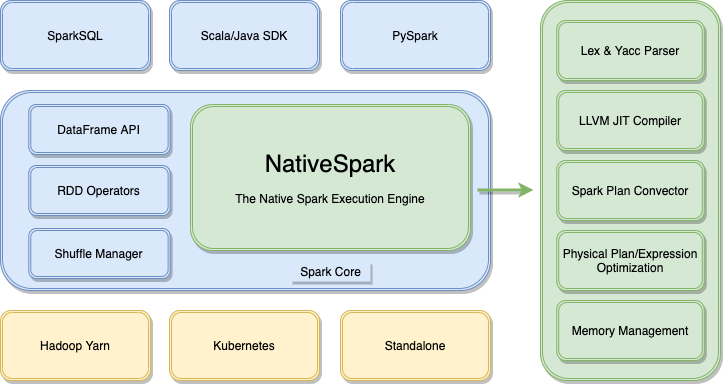
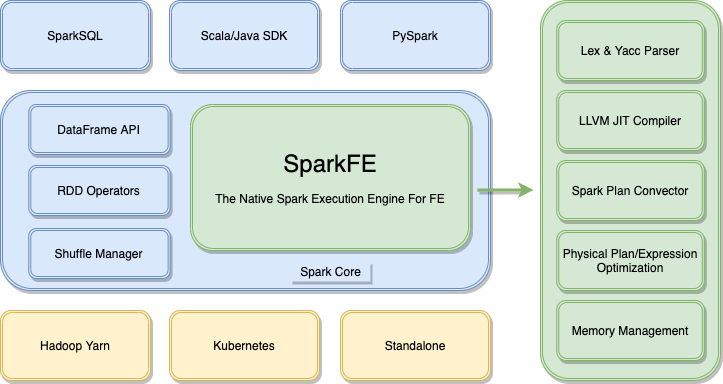
Add more docs for SparkFE

Changed region(s): [[0.3651, 0.375, 0.5477, 0.4688], [0.3043, 0.5, 0.6086, 0.5312]]

diff --git a/sparkfe/under_the_hook/native_window_compute.md b/sparkfe/under_the_hook/native_window_compute.md
@@ -1,0 +1,42 @@
+# NativeWindow优化
+
+## 介绍
+
+SparkFE面向AI和FE场景进行优化，尤其在支持时序窗口的特征抽取上，无论是功能还是性能都比标准Spark有很大提升。
+
+## Spark Over Window实现
+
+对于Spark包含了Catalyst模块，用于进行SQL解析以及最终的RDD物理计划的生成。一个包含时间窗口的SQL用例如下。
+
+```
+select 
+    col1,
+    sum(col2) over w as sum_col2,
+    max(col2) over w as max_col2,
+    min(col2) over w as min_col2,
+    avg(col2) over w as avg_col2
+from t1
+window w as (partition by col1 order by col2 ROWS BETWEEN 10000 PRECEDING AND CURRENT ROW)
+```
+
+根据语意，Spark需要对`col1`列进行分区，所以的滑窗计算都是在每个分区内进行，对应的RDD操作为`repartition`。然后根据用户脚本，分区内的数据要以`col2`进行排序，排序后保留一个10000个数据的窗口缓冲区，对应的RDD操作为`sortWithinPartitions`。最终排序后的数据依次进入窗口缓冲区，根据窗口边界定义检查是否需要滑出，每滑入一行进行一组聚合计算输出一行结果。
+
+标准Spark使用RDD支持的结果，可以很高效地实现前面分区和排序的功能，但对于窗口滑动计算部分，目前是使用Scala语言进行实现的。虽然Spark 2.0开始了Tungsten模块对部分算子进行了Whole-stage code generation的优化，但从最终生成的物理计划可以看出，Window节点是没有被优化的，代码中也缺少对codegen接口的实现。
+
+![](../images/spark_window_physical_plan.png)
+
+实际上窗口的滑出判断以及窗口缓冲区聚合计算是计算密集型操作，使用Scala实现并不高效，而且没有codegen支持相当于缺少了更底层的编译器优化。因此虽然SparkSQL有了对ANSI SQL的Window支持，可以用来实现时序特征计算，但仍有巨大的提升空间。
+
+## SparkFE优化实现
+
+SparkFE是基于Spark的原生执行引擎，可以很好地优化前面提到的计算密集型代码逻辑。
+
+根据SQL Window语意，SparkFE同样会使用RDD的`repartition`和`sortWithinPartitions`进行数据分区和排序，这样可以很好地利用Spark在分布式计算上的优化，而不需要重写网络通信等所有底层接口。在分区和排序后，滑窗逻辑和聚合计算都通过JNI调用SparkFE的native接口来实现。通过JIT技术，用户不需要提前在运行的物理环境进行预编译，而是由SparkFE提前对SQL进行编译优化，把所需要的聚合函数以及滑窗逻辑实时生成LLVM IR，基于LLVM的编译器和后端代码生成器来生成平台优化的二进制码。在计算密集型的窗口聚合计算上，使用LLVM JIT的生成的代码在效率上比用Scala实现的在JVM上运行的代码高很多，尤其加上向量化等优化可以达到数倍的性能提升。除了JIT上的优化，SparkFE内部基于C++还使用了更高效的队列数据结果和更好的堆对象回收机制，并且兼容Spark内部支持的UnsafeRow连续内存格式，大大降低跨语言调用的开销。
+
+对包含Window计算的标准Spark应用进行火焰图性能分析，目前滑动窗口的开销占比就不小，而且窗口内部的聚合计算也不够高效。
+
+![](../images/spark_window_framegraph.png)
+
+同样对SparkFE进行火焰图性能分析，纯计算逻辑的时间占比更高，整体任务运行时间也更短。
+
+![](../images/sparkfe_window_framegraph.png)

diff --git a/sparkfe/benchmark/taxi_tour_multiple_window_benchmark.md b/sparkfe/benchmark/taxi_tour_multiple_window_benchmark.md
@@ -1,0 +1,78 @@
+# TaxiTour多窗口测试
+
+## 介绍
+
+这个测试场景使用公开的TaxiTour数据，数据已经预处理成Parquet文件格式，测试脚本地址为 https://github.com/4paradigm/SparkFE/tree/main/benchmark/taxi_tour_multiple_window 。
+
+## 测试SQL
+
+测试的SQL脚本包含两个Window，窗口大小默认为10000，如果窗口越大那么整体运行时间变长，但SparkFE的性能提升越明显。
+
+```
+select 
+    trip_duration,
+    passenger_count,
+    sum(pickup_latitude) over w as vendor_sum_pl,
+    max(pickup_latitude) over w as vendor_max_pl,
+    min(pickup_latitude) over w as vendor_min_pl,
+    avg(pickup_latitude) over w as vendor_avg_pl,
+    sum(pickup_latitude) over w2 as pc_sum_pl,
+    max(pickup_latitude) over w2 as pc_max_pl,
+    min(pickup_latitude) over w2 as pc_min_pl,
+    avg(pickup_latitude) over w2 as pc_avg_pl,
+    sum(dropoff_latitude) over w as vendor_sum_pl2,
+    max(dropoff_latitude) over w as vendor_max_pl2,
+    min(dropoff_latitude) over w as vendor_min_pl2,
+    avg(dropoff_latitude) over w as vendor_avg_pl2,
+    sum(dropoff_latitude) over w2 as pc_sum_pl2,
+    max(dropoff_latitude) over w2 as pc_max_pl2,
+    min(dropoff_latitude) over w2 as pc_min_pl2,
+    avg(dropoff_latitude) over w2 as pc_avg_pl2,
+    sum(trip_duration) over w as vendor_sum_pl3,
+    max(trip_duration) over w as vendor_max_pl3,
+    min(trip_duration) over w as vendor_min_pl3,
+    avg(trip_duration) over w as vendor_avg_pl3,
+    sum(trip_duration) over w2 as pc_sum_pl3,
+    max(trip_duration) over w2 as pc_max_pl3,
+    min(trip_duration) over w2 as pc_min_pl3,
+    avg(trip_duration) over w2 as pc_avg_pl3
+from t1
+window w as (partition by vendor_id order by pickup_datetime ROWS BETWEEN 10000 PRECEDING AND CURRENT ROW),
+       w2 as (partition by passenger_count order by pickup_datetime ROWS BETWEEN 10000 PRECEDING AND CURRENT ROW)
+```
+
+## 测试脚本
+
+测试使用简单PySpark即可运行，也可以使用Scala等语言实现，小数据量下本地可运行，示例程序如下。
+
+```
+from pyspark.sql import SparkSession
+import os
+
+def main():
+    spark = SparkSession.builder.appName("app").getOrCreate()
+
+    current_path = os.getcwd()
+    parquet_file_path = "file://{}/taxi_tour_parquet/".format(current_path)
+
+    train = spark.read.parquet(parquet_file_path)
+    train.createOrReplaceTempView("t1")
+
+    with open("multiple_window.sql", "r") as f:
+        sparksqlText = f.read()
+        spark_df = spark.sql(sparksqlText)
+
+        output_path = "file:///tmp/spark_output/"
+        spark_df.write.mode('overwrite').parquet(output_path)
+
+    spark.stop()
+
+if __name__ == "__main__":
+    main()
+```
+
+```
+$SPARK_HOME/bin/spark-submit \
+     --master local[*] \
+     ./multiple_window.py
+```

diff --git a/sparkfe/under_the_hook/multiple_window_concurrent_compute_optimization.md b/sparkfe/under_the_hook/multiple_window_concurrent_compute_optimization.md
@@ -1,0 +1,40 @@
+# 多窗口并行计算优化
+
+## 介绍
+
+在使用Spark做特征过程的场景中，同时计算多个窗口特征是非常常见的。标准Spark默认只支持串行执行窗口，在性能和资源利用率上都很大的改进空间，SparkFE则原生支持多窗口并行计算优化。
+
+以下面的简单SQL为例介绍SparkFE的多窗口并行计算优化方案。
+
+```
+SELECT 
+  min(age) OVER w1 as w1_min_age, 
+  min(age) OVER w2 as w2_min_age 
+FROM t1 
+WINDOW 
+  w1 as (PARTITION BY name ORDER by age ROWS BETWEEN 10 PRECEDING AND CURRENT ROW), 
+  w2 as (PARTITION BY age ORDER by age ROWS BETWEEN 10 PRECEDING AND CURRENT ROW)"
+```
+
+## Spark多窗口特征计算
+
+针对上面的SQL应用，标准Spark生成的逻辑计划和物理计划图如下。
+
+![](../images/spark_multiple_window_logical_plan.png)
+
+在任务执行时，必须保证第一个窗口完全计算完成，才可以进行下一个窗口计算。因为窗口计算是需要进行分区的，如果分区中出现数据倾斜的情况，那两个窗口计算都需要等待最慢的分区完成才可以继续，不能充分利用整个集群的计算资源。
+
+
+## SparkFE多窗口特征并行计算
+
+SparkFE提供了多窗口并行计算优化的配置开关，参考[SparkFE配置](../usage/sparkfe_configuration.md)文档，可以通过以下配置来开启UnsafeRow优化。
+
+| 配置项 | 说明 | 默认值 | 备注 |
+| ----- | --- | ----- | ---- |
+| sparkfe.window.parallelization | 是否启动窗口并行计算优化 | false | 窗口并行计算可提高集群利用率但增加计算节点 |
+
+开启配置后，针对上面的SQL应用，SparkFE生成的逻辑计划以及最终的Spark计划如下。
+
+![](../images/sparkfe_multiple_window_concurrent_logical_plan.png)
+
+多窗口并行需要实现一个ConcatJoin功能，把同一行生成的多个窗口特征拼接起来，这里也可以使用[原生LastJoin实现](./native_last_join_optimization.md)进行拼接优化。相比于串行实现，多窗口并行计算虽然会多增加一些数据操作，但多个窗口在资源足够的情况下并行计算，在部分场景下可以达到数倍的性能提升，尤其在出现数据倾斜等情况下能更好地利用集群的物理资源。

diff --git a/sparkfe/under_the_hook/native_last_join_optimization.md b/sparkfe/under_the_hook/native_last_join_optimization.md
@@ -1,0 +1,49 @@
+# 原生LastJoin优化
+
+## 介绍
+
+LastJoin是SparkFE新增的一种适用于机器学习场景的拼表类型，详细介绍可参考[HybridSE语法介绍](../../hybridse/language_guide/)。
+
+## LastJoin实现
+
+根据LastJoin语意，要求拼表后行数与左表行数一致，目前SQL标准的inner join和outer join都不能够满足。如果使用Spark来实现LastJoin语意，实现步骤如下。
+
+1. 左表添加一个索引列，保证每一行有唯一ID
+2. 左右表使用left outer join
+3. 拼表后根据索引列进行reduce
+
+基本的实现代码如下。
+
+```
+val indexColumnName = "indexCol"
+val orderbyColmn = "orderbyCol"
+
+val t1WithIndex = t1.withColumn(indexColumnName, monotonically_increasing_id())
+val t3 = t1WithIndex.join(t2, t1WithIndex("id") === t2("u_id"), "left_outer")
+
+val customOrder = new Ordering[Row]() {
+    override def compare(x: Row, y: Row): Int =
+    Ordering[Long].compare(x.getAs[Long](orderbyColmn), y.getAs[Long](orderbyColmn))
+}
+
+val t4 = t3.groupByKey(row => row.getAs[Long](indexColumnName)).mapGroups {
+    case (k, iter) => {
+    val maxRow = iter.max(customOrder)
+    (maxRow.getAs[Int](0), maxRow.getAs[String](1), maxRow.getAs[String](2), maxRow.getAs[Int](3), maxRow.getAs[Long](4), maxRow.getAs[Int](6), maxRow.getAs[String](7), maxRow.getAs[Long](8))
+    }
+}
+```
+
+从性能上看，LastJoin实现显然不如LeftJoin，但从计算的数据量来看却比后者小很多，主要原因是Spark没有原生LastJoin实现或者拓展，用户必须拼表后再reduce才能得到预期结果。
+
+## 原生LastJoin实现
+
+考虑到LastJoin在机器学习场景还是比较常用了，SparkFE提供了原生的LastJoin实现，无论是网络通信量还是数据计算量都有明显减少。原生LastJoin实现与Spark中其他join type实现类似，需要添加对新类型的支持，并且在BrocastHashJoin、SortMergeJoin和ShuffleHashJoin具体实现中支持这种新类型。
+
+具体实现源码可以在SparkFE的spark子模块中找到。
+
+## 性能对比
+
+对于无排序条件的LastJoin场景，基于Spark的实现和原生LastJoin实现性能对比如下。
+
+![](../image/../images/native_lastjoin_benchmark.png)

diff --git a/sparkfe/under_the_hook/unsaferow_codec_optimization.md b/sparkfe/under_the_hook/unsaferow_codec_optimization.md
@@ -1,0 +1,29 @@
+# UnsafeRow编码优化
+
+## 介绍
+
+Spark UnsafeRow是Catalyst和Tungsten模块引入的内存优化方案，基于JVM提供的Unsafe接口实现，可以减少JVM对象并降低GC带来的性能影响。
+
+## UnsafeRow内存格式
+
+Spark UnsafeRow定义了单行的数据内存分布格式，整行的数据都在一段连续内存中，具体的格式如下。
+
+* 64bit（8byte）对齐，内存空间不紧凑但有利于提高访存性能
+* 小端存储，这样低位类型存到高位内存（如存int到64位）不需要额外编码
+* 所有列不管什么类型都按64bit存储，变长内容顺延存储
+
+![](../images/spark_unsaferow_memory_layout.jpeg)
+
+## SparkFE编码兼容
+
+Spark内部所有行数据存储默认都使用UnsafeRow格式，SparkFE提供了以下两种方式支持Spark都行编码。
+
+* 编解码模式，对行的每一列进行重新的编解码，总内存占用更小，但存在编解码开销。
+* UnsafeRow兼容模式，内部行格式兼容UnsafeRow内存布局，没有编解码开销。
+
+参考[SparkFE配置](../usage/sparkfe_configuration.md)文档，可以通过以下配置来开启UnsafeRow优化。
+
+
+| 配置项 | 说明 | 默认值 | 备注 |
+| ----- | --- | ----- | ---- |
+| sparkfe.enable.unsaferow.optimization | 是否开启UnsafeRow内存优化 | false | 开启后降低编解码开销，目前部分复杂类型不支持 |

diff --git a/SUMMARY.md b/SUMMARY.md
@@ -97,13 +97,11 @@
     * 开发文档
         * [从源码构建项目](sparkfe/development/build_from_scratch.md)
         * [使用不同操作系统构建](sparkfe/development/build_for_different_os.md)
-    * 底层优化
-        * [NativeWindow优化]()
-        * [NativeLastJoin优化]()
-        * [UnsafeRow编码优化]()
-        * [窗口数据倾斜处理优化]()
-        * [多窗口并行计算优化]()
+    * [底层优化](sparkfe/under_the_hook/README.md)
+        * [NativeWindow优化](sparkfe/under_the_hook/native_window_compute.md)
+        * [原生LastJoin优化](sparkfe/under_the_hook/native_last_join_optimization.md)
+        * [UnsafeRow编码优化](sparkfe/under_the_hook/unsaferow_codec_optimization.md)
+        * [多窗口并行计算优化](sparkfe/under_the_hook/multiple_window_concurrent_compute_optimization.md)
     * [性能测试](sparkfe/benchmark/README.md)
-        * [TaxiTour多窗口测试]()
-    * [常见问题](sparkfe/faq.md)
-* [项目贡献](contribution/README.md)
+        * [TaxiTour多窗口测试](sparkfe/benchmark/taxi_tour_multiple_window_benchmark.md)
+    * [常见问题](sparkfe/faq/faq.md)

diff --git a/sparkfe/development/build_for_different_os.md b/sparkfe/development/build_for_different_os.md
@@ -1,1 +1,29 @@
 # 使用不同操作系统构建
+
+## 介绍
+
+SparkFE是一个原生的计算执行引擎，需要根据不同的操作系统进行单独构建。
+
+## 构建命令
+
+针对不同的操作系统，构建命令如下。
+
+| 操作系统 | 编译命令 | 备注 |
+| ------- | ------ | ---- |
+| Linux   | mvn clean package| 支持CentOS 6、Ubuntu等Linux发行版 |
+| MacOS   | mvn clean package -Pmacos | 支持macOS Big Sur以及后续版本 |
+| All in one | mvn clean package -Pallinone | 同时支持Linux、MacOS操作系统 |
+
+## 构建SparkFE发行版
+
+SparkFE发行版的源码在项目中的spark子模块中，依赖正式发布的sparkfe的模块，默认使用allinone版本构建。
+
+如果需要针对Linux或者MacOS进行编译优化，需要修改`sql/core/pom.xml`文件的以下依赖。
+
+```
+<dependency>
+    <groupId>com._4paradigm.hybridsql</groupId>
+    <artifactId>sparkfe</artifactId>
+    <version>0.1.0-SNAPSHOT-allinone</version>
+</dependency>
+```

diff --git a/sparkfe/faq/faq.md b/sparkfe/faq/faq.md
@@ -1,0 +1,13 @@
+# FAQ
+
+## 如何部署SparkFE？
+
+SparkFE和Spark一样，是一个分布式应用编程类库，不需要单独部署，可以在本地、容器内或者Yarn、Kubernetes集群上运行。在开发调试阶段，使用本地和容器环境一般可以满足需求，大数据处理则需要Yarn这样的分布式环境。
+
+## SparkFE是否和Spark upstream同步？
+
+是的，SparkFE distribution是基于Spark源码修改，可以支持Spark 3.0及后续版本，侵入源码的修改少与一百行，除了SparkSQL有优化实现外其他功能保持与Spark一致，未来也将跟随Spark版本同步发展。
+
+## SparkFE性能提升是否需要硬件支持？
+
+目前SparkFE生成的平台相关二进制码都是基于平台CPU优化的，不需要额外的硬件支持，相当于无成本的性能提升并且降低项目TCO。

diff --git a/home.md b/home.md
@@ -1,0 +1,7 @@
+# 介绍
+
+HybridSQL生态包含以下三个项目。
+
+* [HybridSE](./hybridse/introduction/README.md)是基于C++和LLVM实现的高性能混合SQL执行引擎，为AI应用、OLAD数据库、HTAP系统、SparkSQL、Flink Streaming SQL等提供一致性的SQL加速优化。
+* [FEDB](./fedb/README.md)是一个面向在线推理和决策应用的NewSQL数据库。
+* [SparkFE](./sparkfe/introduction/introduction.md)是针对AI特征工程场景的基于LLVM优化的高性能Spark原生执行引擎。

diff --git a/sparkfe/under_the_hook/README.md b/sparkfe/under_the_hook/README.md
@@ -1,0 +1,10 @@
+# 底层实现
+
+## 简介
+
+SparkFE底层基于LLVM和自研的SQL引擎进行优化，有以下的性能优化。
+
+* [NativeWindow优化](./native_window_compute.md)
+* [原生LastJoin优化](./native_last_join_optimization.md)
+* [UnsafeRow编码优化](./unsaferow_codec_optimization.md)
+* [多窗口并行计算优化](./multiple_window_concurrent_compute_optimization.md)

diff --git a/sparkfe/benchmark/README.md b/sparkfe/benchmark/README.md
@@ -1,0 +1,9 @@
+# 性能测试
+
+## 介绍
+
+本文档介绍SparkFE性能测试相关测试场景，方便用户找到更好的SparkFE应用案例。
+
+基础的Benchmark性能对比如下。
+
+![](../images/sparkfe_benchmark.png)

diff --git a/sparkfe/introduction/introduction.md b/sparkfe/introduction/introduction.md
@@ -1,6 +1,4 @@
-![SparkFE Logo](../images/sparkfe_logo.png)
-
-## 介绍
+## 简介
 
 SparkFE是针对AI特征工程场景的基于LLVM优化的高性能Spark原生执行引擎。
 
